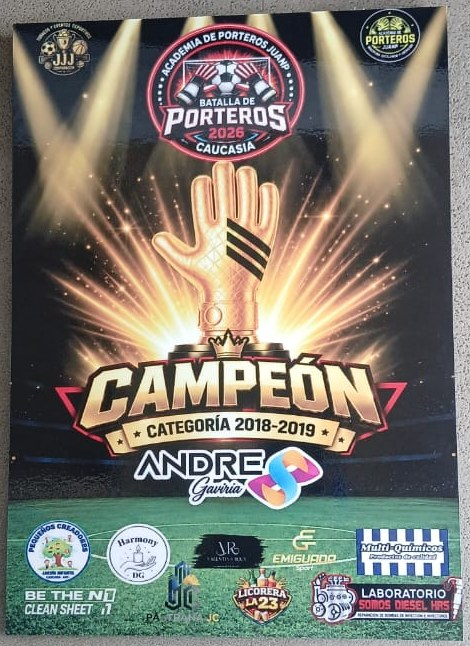
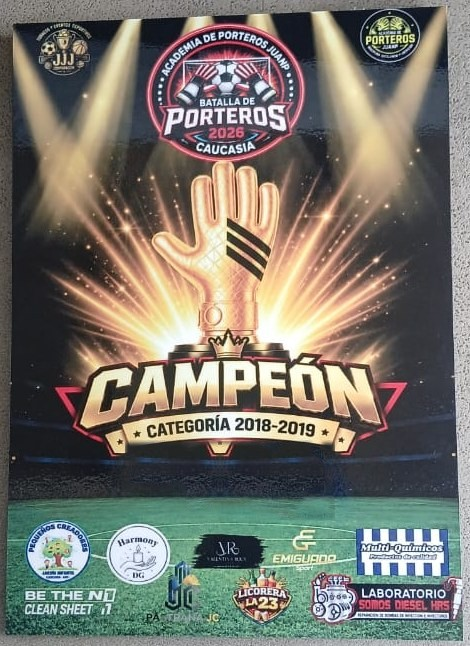
Quitar el nombre del cuadro del torneo y de la vista previa
Claude-Session: https://claude.ai/code/session_01Qv96KWYc2fLb1gj1XX7cVt

Changed region(s): [[0.2681, 0.6811, 0.7149, 0.805]]

diff --git a/index.html b/index.html
@@ -13,13 +13,13 @@
 <meta property="og:url" content="https://jeronimo-batalla-de-porteros.netlify.app/">
 <meta property="og:title" content="Jerónimo · Ganador de la ronda clasificatoria">
 <meta property="og:description" content="Batalla de Porteros 2026 · Caucasia. Mira sus atajadas, el video en cámara lenta y déjale un mensaje.">
-<meta property="og:image" content="https://jeronimo-batalla-de-porteros.netlify.app/img/og-jeronimo.jpg">
+<meta property="og:image" content="https://jeronimo-batalla-de-porteros.netlify.app/img/og-jeronimo.jpg?v=2">
 <meta property="og:image:width" content="1200">
 <meta property="og:image:height" content="630">
 <meta name="twitter:card" content="summary_large_image">
 <meta name="twitter:title" content="Jerónimo · Ganador de la ronda clasificatoria">
 <meta name="twitter:description" content="Batalla de Porteros 2026 · Caucasia. Mira sus atajadas, el video en cámara lenta y déjale un mensaje.">
-<meta name="twitter:image" content="https://jeronimo-batalla-de-porteros.netlify.app/img/og-jeronimo.jpg">
+<meta name="twitter:image" content="https://jeronimo-batalla-de-porteros.netlify.app/img/og-jeronimo.jpg?v=2">
 
 <link rel="manifest" href="manifest.json">
 <link rel="icon" type="image/png" href="img/icon-192.png">

diff --git a/sw.js b/sw.js
@@ -1,5 +1,5 @@
 // Service worker — Jerónimo · Batalla de Porteros 2026 (Vibras Positivas HM)
-const CACHE = 'jeronimo-v1';
+const CACHE = 'jeronimo-v2';
 const SHELL = [
   './', 'index.html', 'manifest.json',
   'img/icon-192.png', 'img/icon-512.png', 'img/apple-touch-icon.png',
